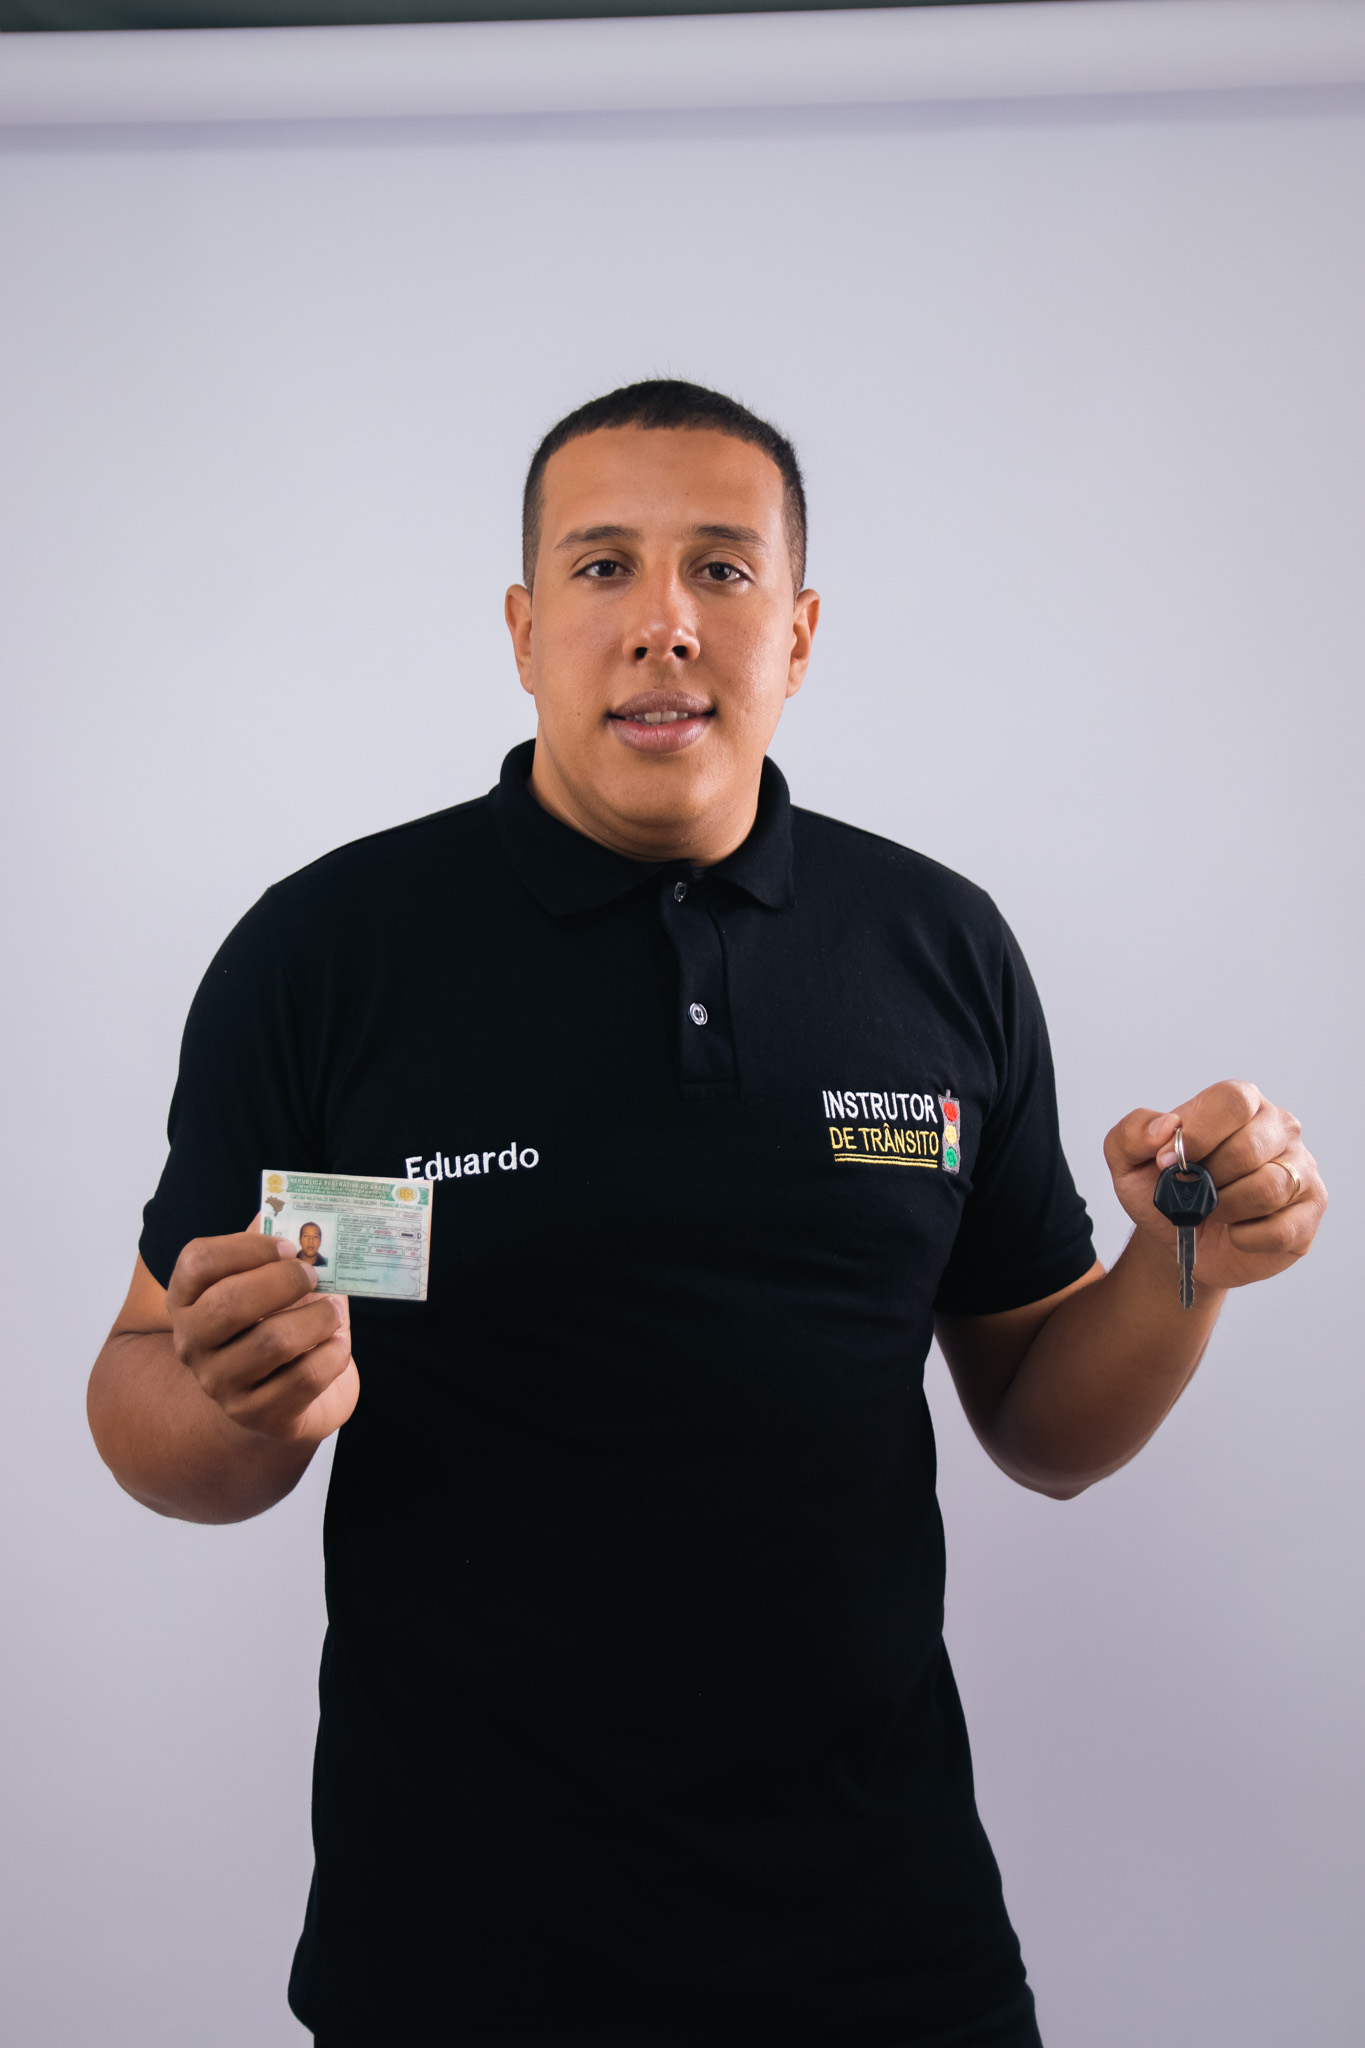
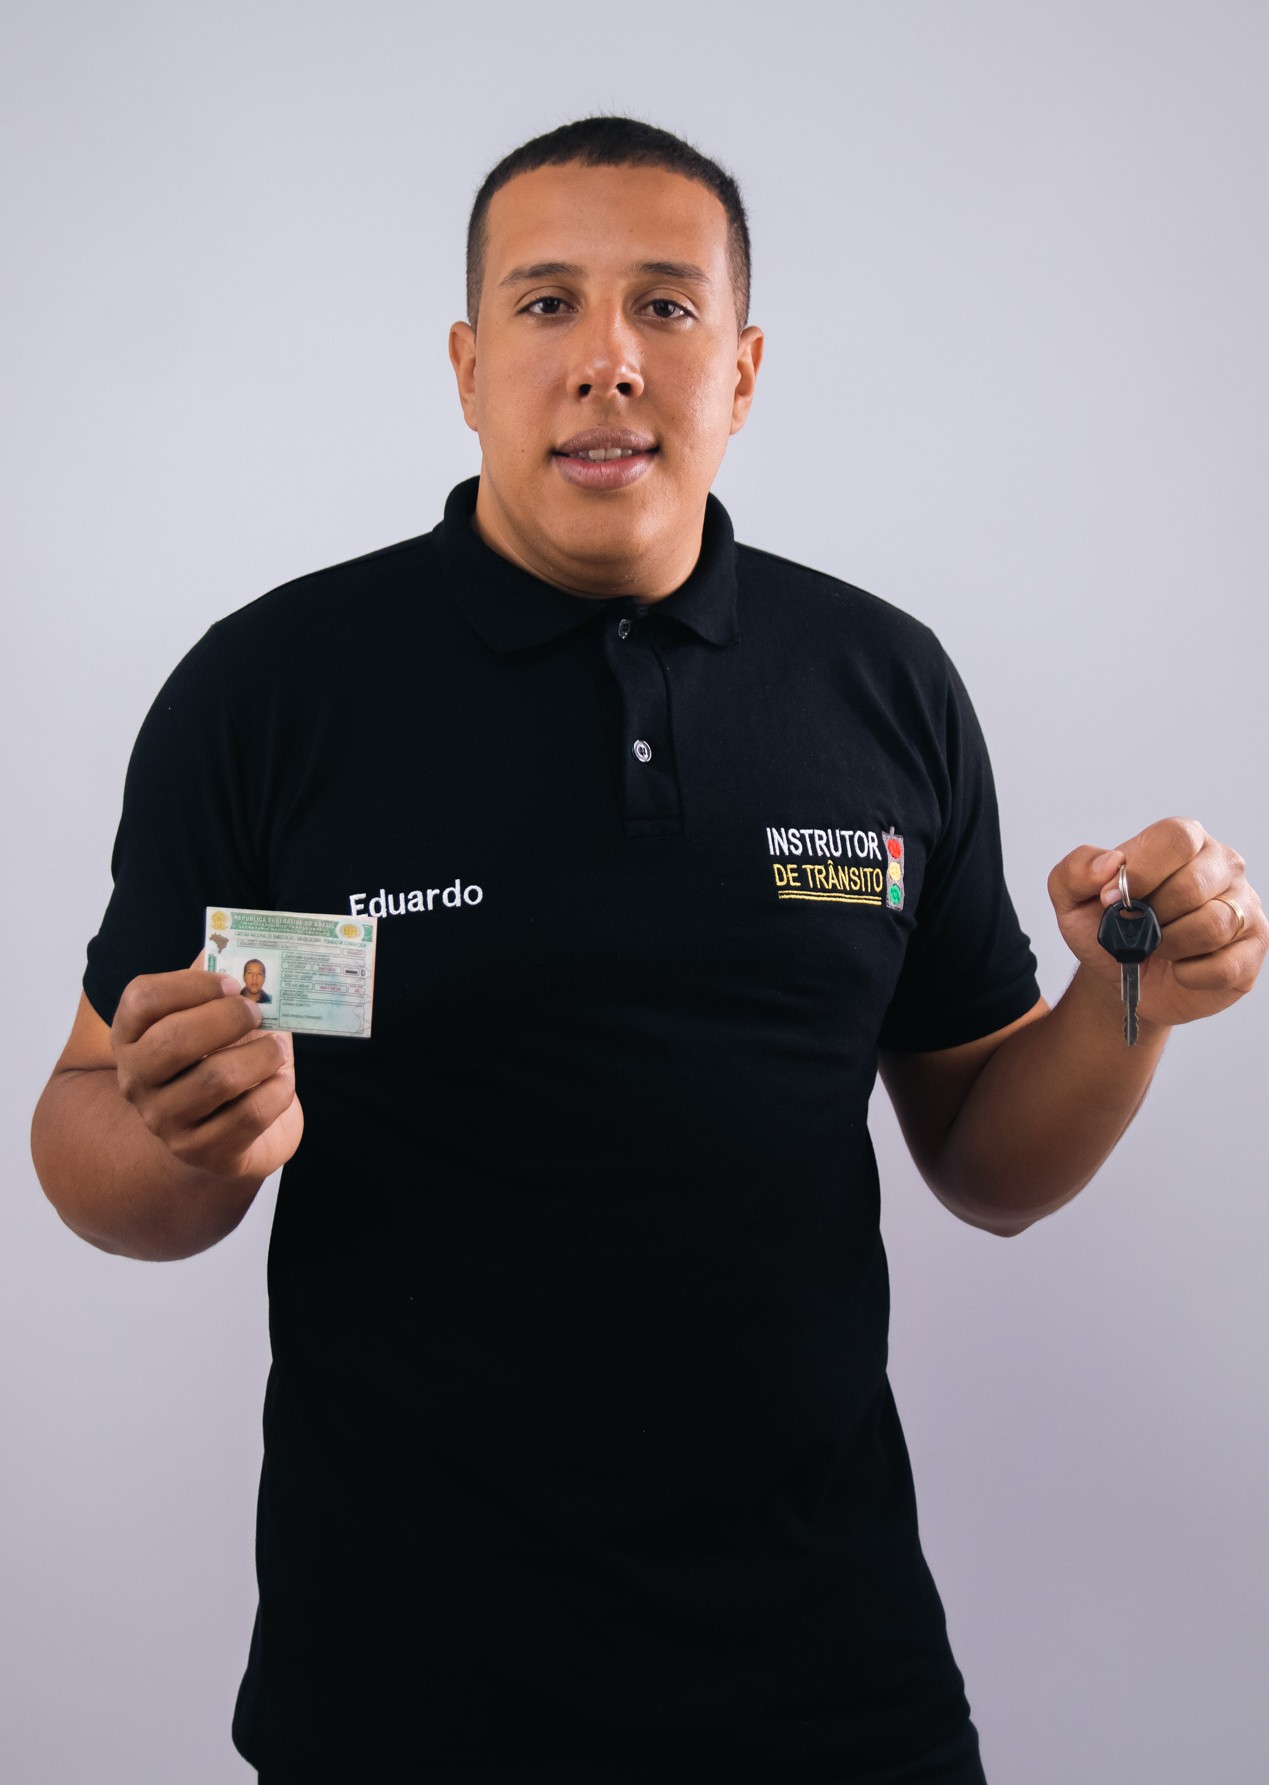
mudanças

Changed region(s): [[0.0, 0.0, 1.0, 1.0], [0.4917, 0.493, 0.5225, 0.5238]]

diff --git a/index.html b/index.html
@@ -103,7 +103,7 @@
 <header class="site-header" id="topo">
   <div class="wrap header-inner">
     <a href="#topo" class="brand" aria-label="EDU AULAS - início">
-      <img class="brand-logo" src="img/logo-edu.jpeg" alt="Logo EDU AULAS - Instrutor Autônomo credenciado Detran-SP">
+      <img class="brand-logo" src="img/logo-edu.png" alt="Logo EDU AULAS - Instrutor Autônomo credenciado Detran-SP">
     </a>
 
     <nav class="main-nav" id="mainNav" aria-label="Navegação principal">
@@ -162,7 +162,7 @@
           <span class="hero-badge-line2">DETRAN‑SP</span>
         </div>
         <img
-          src="img/IMG_4954.jpg"
+          src="img/IMG_4906.jpg"
           alt="Eduardo, instrutor autônomo credenciado pelo Detran-SP em Guarulhos, sorrindo com a chave do carro na mão"
           width="1365" height="2048"
           fetchpriority="high">
@@ -176,7 +176,7 @@
     <div class="wrap">
       <p class="eyebrow reveal">Você se identifica com isso?</p>
       <h2 class="section-title reveal">Ansioso pra fazer o exame? <span class="text-accent">Isso é mais comum do que parece.</span></h2>
-      <p class="section-lead reveal">Muita gente já fez algumas aulas e ainda não se sente segura. O medo de travar, de errar na baliza ou de "branquear" na hora do exame é normal — o que muda o jogo é ter alguém do seu lado explicando o porquê de cada erro, não só dando comando.</p>
+      <p class="section-lead reveal">Muita gente já fez algumas aulas e ainda não se sente segura. O medo de travar ou de "branquear" na hora do exame é normal — o que muda o jogo é ter alguém do seu lado explicando o porquê de cada erro, não só dando comando.</p>
 
       <div class="compare reveal">
         <div class="compare-col compare-before">
@@ -268,7 +268,7 @@
     <div class="wrap about-grid">
       <div class="about-media reveal">
         <img
-          src="img/IMG_4881.jpg"
+          src="img/IMG_4931.jpg"
           alt="Eduardo, instrutor de trânsito autônomo credenciado pelo Detran-SP em Guarulhos, retrato de braços cruzados"
           loading="lazy" width="1365" height="2048">
       </div>

diff --git a/styles.css b/styles.css
@@ -237,10 +237,10 @@ svg{ display:block; }
 }
 .header-inner{
   display:flex; align-items:center; justify-content:space-between;
-  padding-block:.9rem;
+  padding-block:.5rem;
 }
 .brand{ display:flex; align-items:center; gap:.65rem; }
-.brand-logo{ height:40px; width:auto; border-radius:8px; display:block; }
+.brand-logo{ height:88px; width:auto; border-radius:8px; display:block; }
 .brand-text{ display:flex; flex-direction:column; line-height:1.05; }
 .brand-name{
   font-family:var(--font-display); color:#fff; font-size:1.15rem;
@@ -295,6 +295,7 @@ svg{ display:block; }
   .nav-toggle{ display:none; }
 }
 @media (max-width:899px){
+  .brand-logo{ height:52px; }
   .main-nav{
     display:flex;
     position:absolute; top:100%; left:0; right:0;
